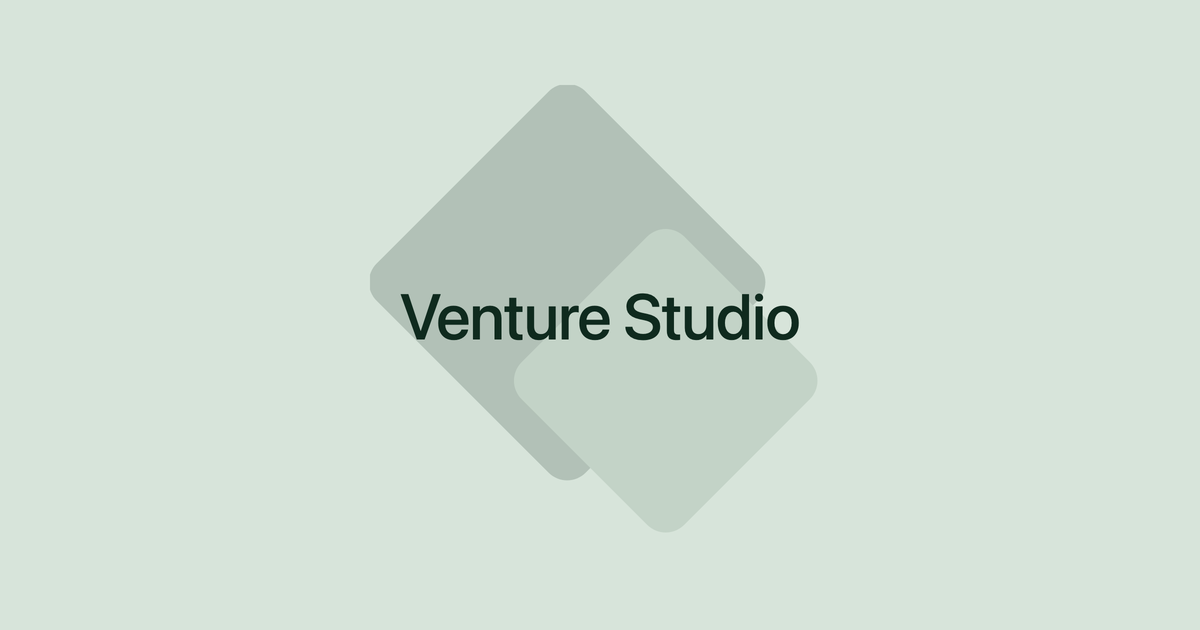
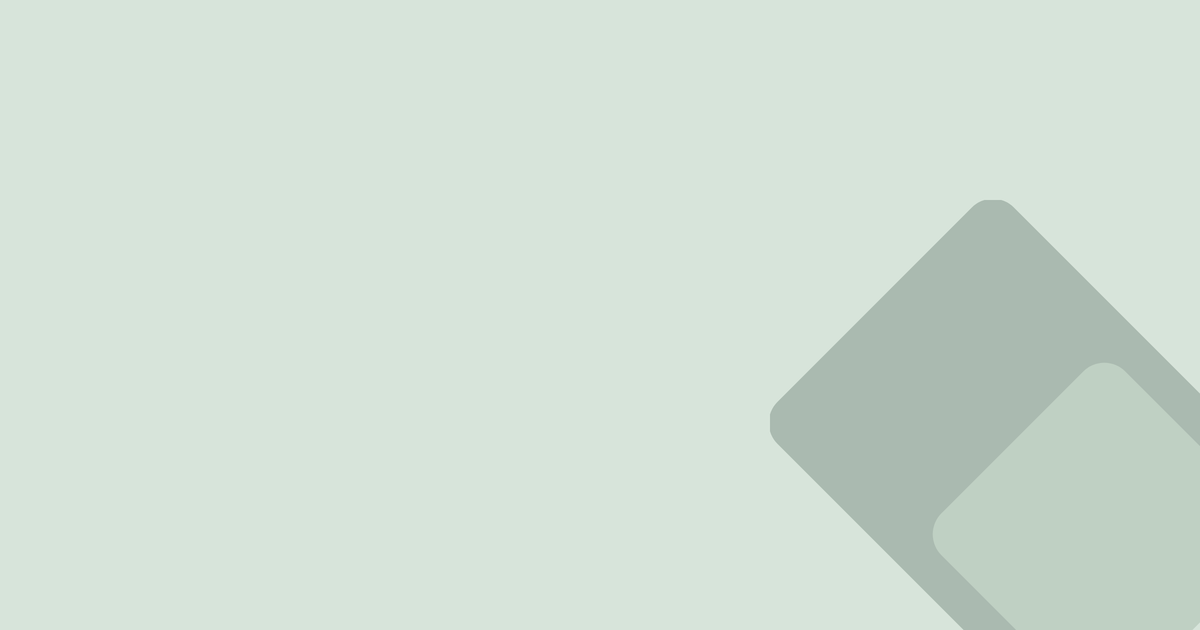
Fix link preview: let iOS render the title, don't bake it into the image
iMessage overlays og:title and the domain as native text on top of
the og:image — it isn't part of the picture (confirmed by comparing
against another site's real link preview). The image had "Venture
Studio" baked in, competing with that overlay. Strips the image down
to just the light green background + faded diamond mark in the
corner, and sets og:title to "Venture Studio" directly so the card
text matches what was asked for.

Changed region(s): [[0.3083, 0.1206, 1.0, 1.0]]

diff --git a/index.html b/index.html
@@ -9,13 +9,13 @@
 
 <meta property="og:type" content="website">
 <meta property="og:url" content="https://www.allorafoundry.com/">
-<meta property="og:title" content="Allora Foundry — Venture Studio">
+<meta property="og:title" content="Venture Studio">
 <meta property="og:description" content="Allora Foundry designs, builds, and helps market Apple apps, websites, and products for founders and startups.">
 <meta property="og:image" content="https://www.allorafoundry.com/assets/og-image.png">
 <meta property="og:image:width" content="1200">
 <meta property="og:image:height" content="630">
 <meta name="twitter:card" content="summary_large_image">
-<meta name="twitter:title" content="Allora Foundry — Venture Studio">
+<meta name="twitter:title" content="Venture Studio">
 <meta name="twitter:description" content="Allora Foundry designs, builds, and helps market Apple apps, websites, and products for founders and startups.">
 <meta name="twitter:image" content="https://www.allorafoundry.com/assets/og-image.png">
 <link rel="preconnect" href="https://fonts.googleapis.com">
